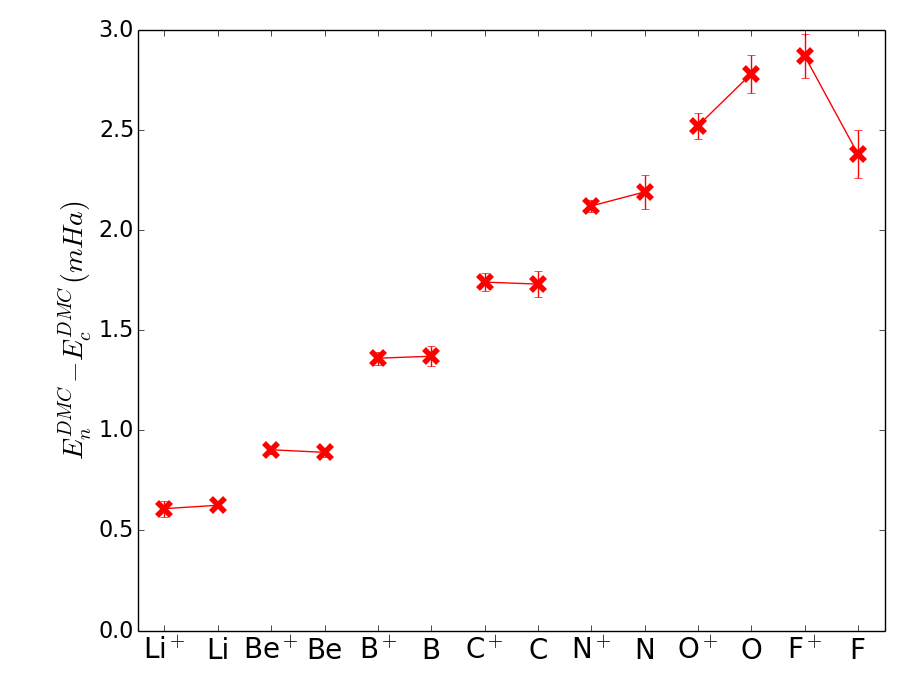
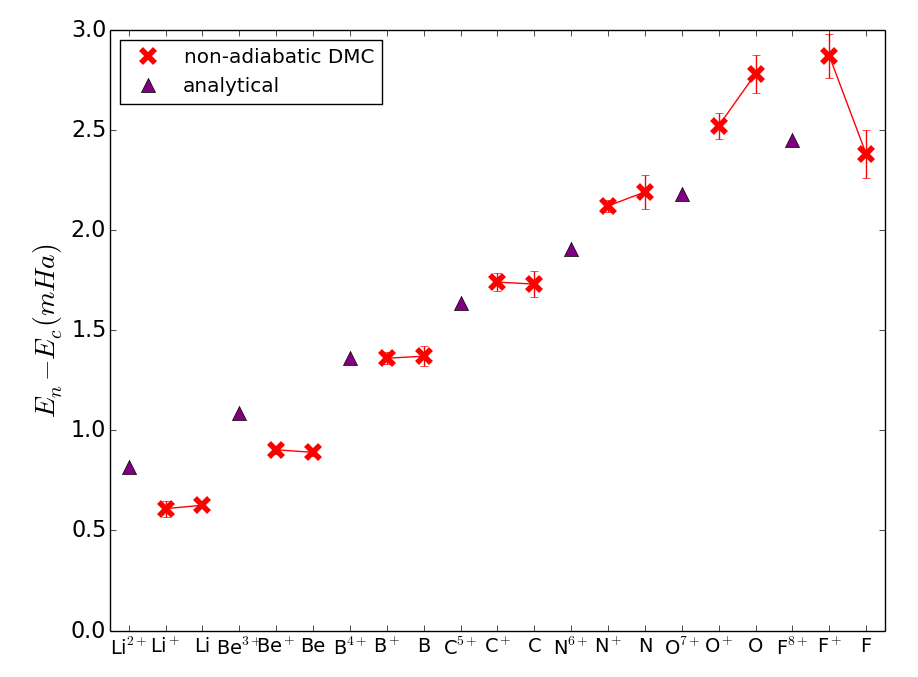
Added Analytical Results

diff --git a/main.tex b/main.tex
@@ -83,7 +83,13 @@ As an illustration of the high quality QMC techniques used in this work, we comp
 
 For the atomic systems, there are five ECG calculations of non-adiabatic ground state energies we can use as benchmarks. The non-adiabatic ground-state energies for Be, $\text{Be}^+$, B, $\text{B}^+$ and $\text{C}^+$ are in agreement with ECG results within 0.3 mHa as shown in Figure \ref{fig:atom-ECG}. In Figure \ref{fig:atom-ECG}, the error bars for the reference ECG results are absorbed into the DMC error bars for clarity. Assuming the ECG results are converged to the exact ground state energies, the difference between clamped-ion DMC ground-state and ECG reference is the amount of fixed-node error present in our electronic wave functions, while its non-adiabatic counterpart is the fixed-node error for the electron-ion wave function. We see that the fixed-node error in the electron-ion wave functions can be larger than that in the electronic wave function at the sub-mHa level. Since the dragged-node approximation does not change the quality of nodes for atoms and ions, the additional fixed-node error in the electron-ion wave function indicates that nuclear-electron correlation can non-trivially modify the nodes of the wave function.
 
-In Figure \ref{fig:atom-nad-ad}, we demonstrate the non-adiabatic contribution to ground-state energies. The amount of non-adiabatic contribution increases with atomic number but stays relatively constant between the neatral and cationic species. This observation suggests that for atomic systems, the non-adiabatic coupling between the outer-most electron and nucleus motion is small. This point is further illustrated by the ionization energies reported in Table \ref{tab:ionization} and shown in Figure \ref{fig:ionization}. It is interesting to note that even though the ground-state energy of an atom can differ significantly from the clamped-ion to the non-adiabatic calculation (as much as 3 mHa for $\text{F}^+$). The ionization energies calculated with and without the adiabatic assumption are statistically indistinguishable except for O and F, where the differences are 0.26(11)mHa and 0.49(12)mHa respectively.
+In Figure \ref{fig:atom-nad-ad}, we demonstrate the non-adiabatic contribution to ground-state energies. We also provide order-of-magnitude estimates for these contributions by solving the single-electron ions exactly with reduced mass. The result in Hartree atomic units is
+\begin{align}
+E_n-E_c=\frac{Z^2}{2(M+1)}
+\end{align}
+where $M$ and $Z$ are the the mass and atomic number of the nucleus. For $\text{Li}^{2+}$ and $\text{Be}^{3+}$, the addition of electrons decreases the overall non-adiabatic contribution whereas for $\text{C}^{5+}$ and heavier nuclei, the addition of electrons increase the it.
+
+The amount of non-adiabatic contribution increases with atomic number but stays relatively constant between the neatral and cationic species. This observation suggests that for atomic systems, the non-adiabatic coupling between the outer-most electron and nucleus motion is small. This point is further illustrated by the ionization energies reported in Table \ref{tab:ionization} and shown in Figure \ref{fig:ionization}. It is interesting to note that even though the ground-state energy of an atom can differ significantly from the clamped-ion to the non-adiabatic calculation (as much as 3 mHa for $\text{F}^+$). The ionization energies calculated with and without the adiabatic assumption are statistically indistinguishable except for O and F, where the differences are 0.26(11)mHa and 0.49(12)mHa respectively.
 
 \begin{figure}
 \centering

diff --git a/Table/atoms.tex b/Table/atoms.tex
@@ -2,7 +2,7 @@
 \setlength{\extrarowheight}{1pt}
 \begin{threeparttable}
 
-\caption{Ground state energies for atoms and ions and the ionization energies for atoms: Fixed-Node DMC results of this work (FN-DMC) for atoms and ions with and without the adiabatic assumption. The ionization potentials (IP) are reported in the last section of the table with the experimental values. Energies are given in units of Hartree. For the highly accurate Hylleraas and ECG results, up to 8 digits are reported in the table. \label{tab:ionization}}
+\caption{Ground state energies for atoms and ions and the ionization energies for atoms:  Fixed-Node DMC results of this work (FN-DMC) for atoms and ions with and without the adiabatic assumption. The rows marked with bolded \textbf{FN-DMC} are our non-adiabatic results. The ionization potentials (IP) are reported in the last section of the table with the experimental values. Energies are given in units of Hartree. For the highly accurate Hylleraas and ECG results, up to 8 digits are reported in the table. \label{tab:ionization}}
 \begin{tabular}
 % siunitx setup
 {
@@ -46,7 +46,7 @@ $E_{\text{ref}}$ \cite{Davidson_Atoms,Wang_Li,Stanke_Be,Bubin_B} &  \text{-}7.47
 \multicolumn{1}{c}{} &
 \multicolumn{1}{c}{} &
 \multicolumn{1}{c}{} \\
-FN-DMC & \text{-}7.47743(1) & \text{-}14.66643(2) & \text{-}24.65240(5) & \text{-}37.8428(1) & \text{-}54.58639(8) & \text{-}75.06298(9) & \text{-}99.72922(7) \\
+\textbf{FN-DMC} & \text{-}7.47743(1) & \text{-}14.66643(2) & \text{-}24.65240(5) & \text{-}37.8428(1) & \text{-}54.58639(8) & \text{-}75.06298(9) & \text{-}99.72922(7) \\
 ECG & N/A & \text{-}14.666435\tnote{d} & \text{-}24.652624\tnote{e} & N/A & N/A & N/A & N/A \\
 \hline
 
@@ -78,7 +78,7 @@ $E_{\text{ref}}$ \tnote{f} \cite{Davidson_Atoms,Puchalski_Be+,Bubin_B+,Bubin_C+}
 \multicolumn{1}{c}{} &
 \multicolumn{1}{c}{} &
 \multicolumn{1}{c}{} \\
-FN-DMC & \text{-}7.27931(4) & \text{-}14.32386(2) & \text{-}24.34748(3) & \text{-}37.42901(4) & \text{-}54.05164(2) & \text{-}74.56336(5) & \text{-}99.08843(5) \\
+\textbf{FN-DMC} & \text{-}7.27931(4) & \text{-}14.32386(2) & \text{-}24.34748(3) & \text{-}37.42901(4) & \text{-}54.05164(2) & \text{-}74.56336(5) & \text{-}99.08843(5) \\
 ECG & N/A &  \text{-}14.323863\tnote{j} &  \text{-}24.347641\tnote{k} &  \text{-}37.429169\tnote{l} & N/A & N/A & N/A \\
 \hline
 \multicolumn{1}{c}{} & 

diff --git a/Table/diatomics.tex b/Table/diatomics.tex
@@ -1,7 +1,7 @@
 \begin{table*}[t!]
 \setlength{\extrarowheight}{1pt}
 \begin{threeparttable}
-\caption{Ground state energies and atomization energies: Fixed-Node DMC results of this work for all first row hydrides with and without the adiabatic assumption. Energies are given in units of Hartree. \label{tab:atomization}}
+\caption{Ground state energies and atomization energies: Fixed-Node DMC results of this work for all first row hydrides with and without the adiabatic assumption. The rows marked with bolded \textbf{FN-DMC} are our non-adiabatic results. Energies are given in units of Hartree. \label{tab:atomization}}
 \begin{tabular}
 % siunitx setup
 {
@@ -31,7 +31,7 @@
 \multicolumn{1}{c}{} &
 \multicolumn{1}{c}{} &
 \multicolumn{1}{c}{} \\
-E (this work) & \text{-}8.070515(8) & \text{-}15.24793(1) & \text{-}25.28868(2) & \text{-}38.4781(1) & \text{-}75.7352(1) & \text{-}100.4556(2) \\
+FN-DMC & \text{-}8.070515(8) & \text{-}15.24793(1) & \text{-}25.28868(2) & \text{-}38.4781(1) & \text{-}75.7352(1) & \text{-}100.4556(2) \\
 $E_{\text{ref}}$ \tnote{a} \cite{Adamowicz_LiH,Koput_BeH,Miliordos_BH,Davidson_Atoms,Feller_Corrections} & \text{-}8.0705473 & \text{-}15.247846 & \text{-}25.287650 & \text{-}38.4792(2) & \text{-}75.7382(2) & \text{-}100.4600(3) \\
 \multicolumn{1}{c}{} & 
 \multicolumn{1}{c}{} &
@@ -40,7 +40,7 @@ $E_{\text{ref}}$ \tnote{a} \cite{Adamowicz_LiH,Koput_BeH,Miliordos_BH,Davidson_A
 \multicolumn{1}{c}{} &
 \multicolumn{1}{c}{} &
 \multicolumn{1}{c}{} \\
-E (this work) & \text{-}8.06607(4) & \text{-}15.24198(6) & \text{-}25.28103(5) & \text{-}38.4671(2) & \text{-}75.7248(2) & \text{-}100.4432(2) \\
+\textbf{FN-DMC} & \text{-}8.06607(4) & \text{-}15.24198(6) & \text{-}25.28103(5) & \text{-}38.4671(2) & \text{-}75.7248(2) & \text{-}100.4432(2) \\
 ECG \cite{Bubin_LiH_noBO,Bubin_BeH_noBO,Bubin_BH_noBO} & \text{-}8.0664371(15) & \text{-}15.24203(10) & \text{-}25.2803(10) & N/A & N/A & N/A \\
 \hline
 
